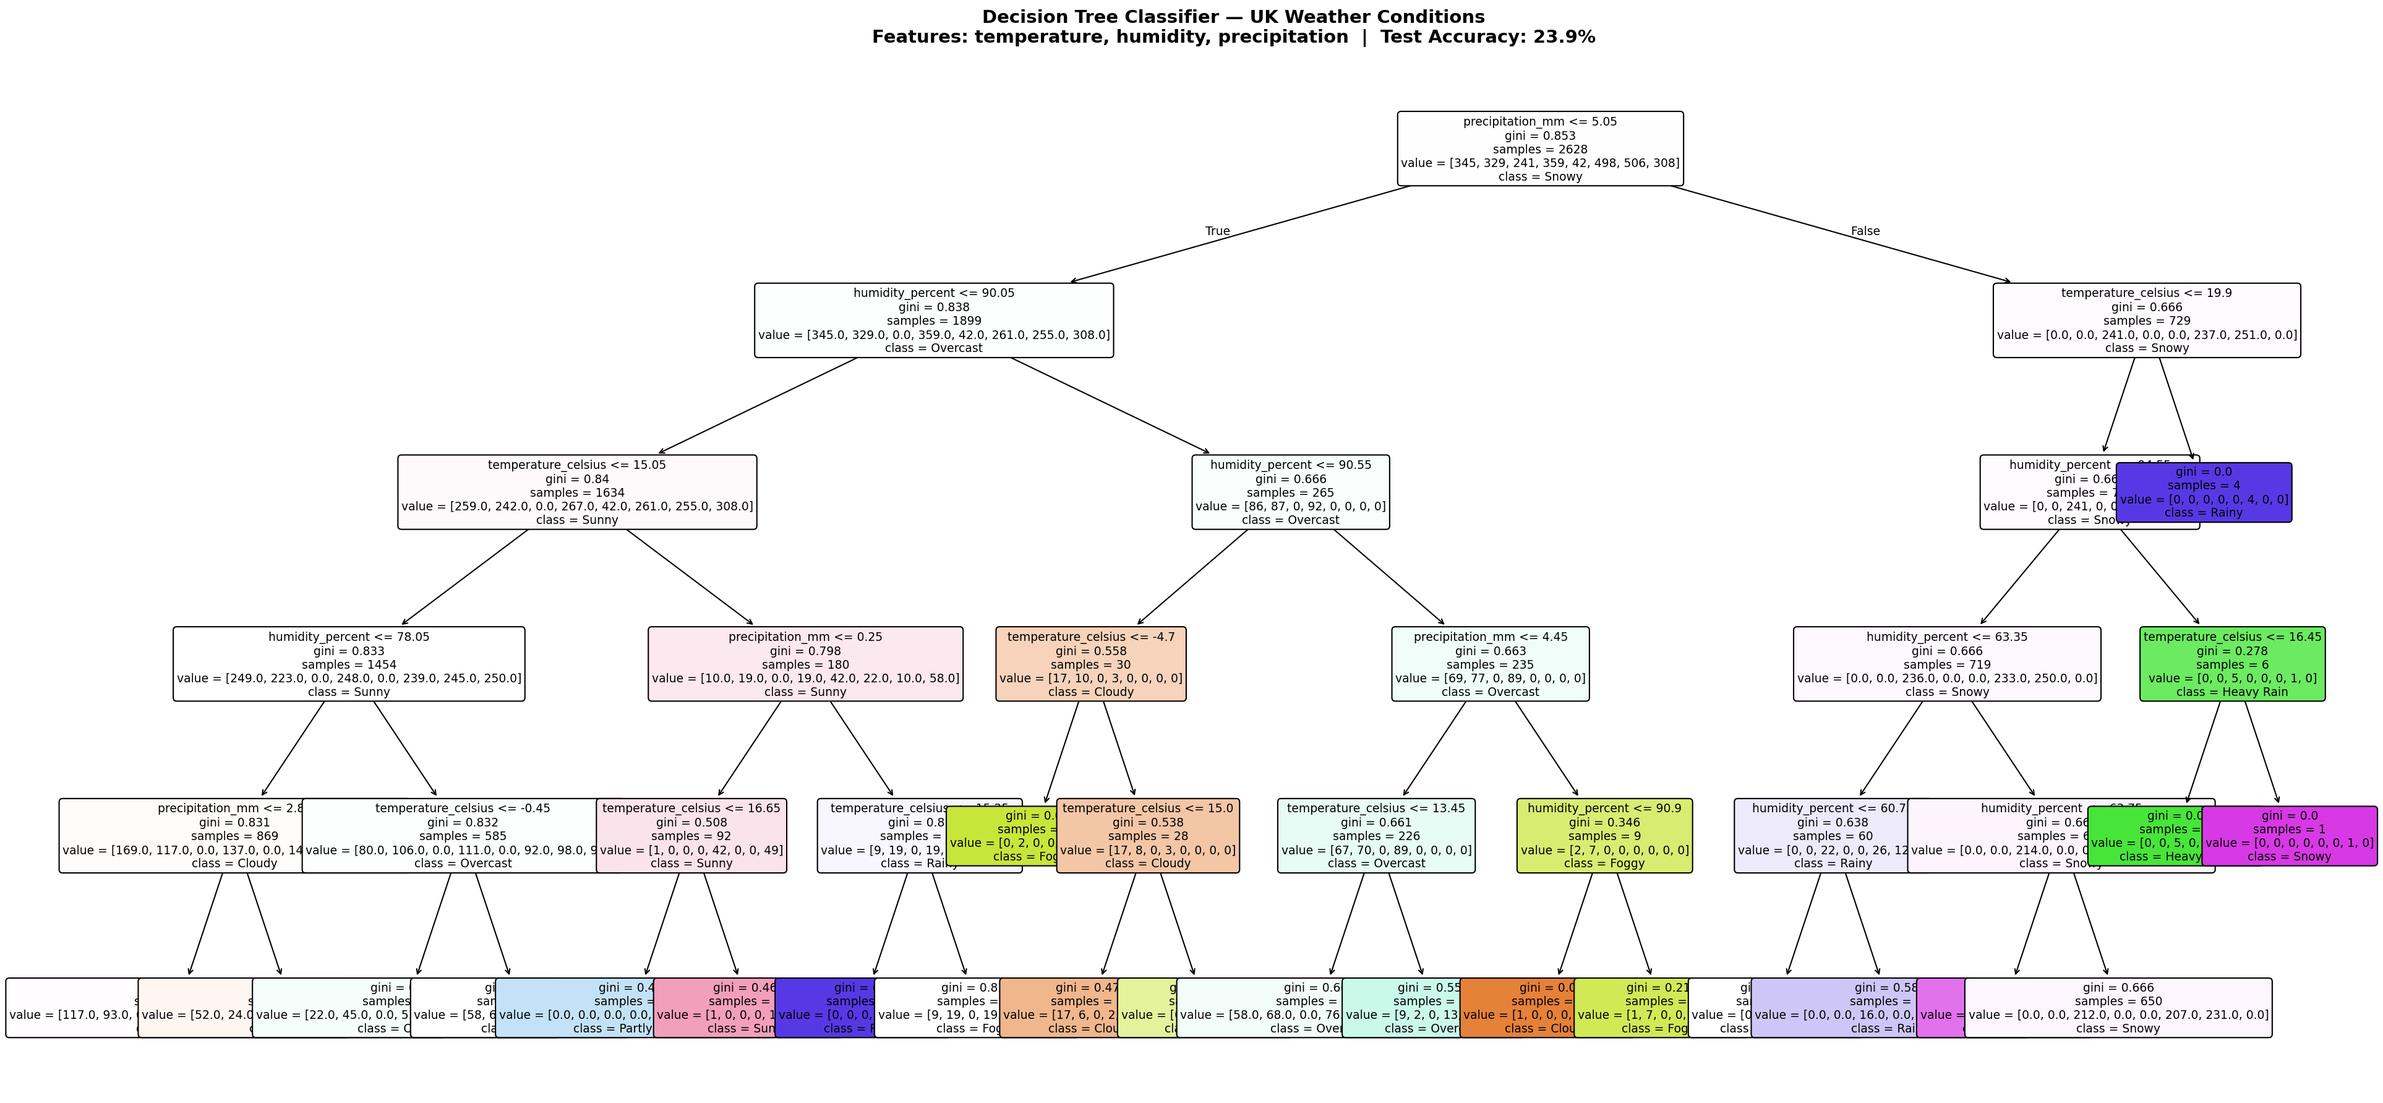
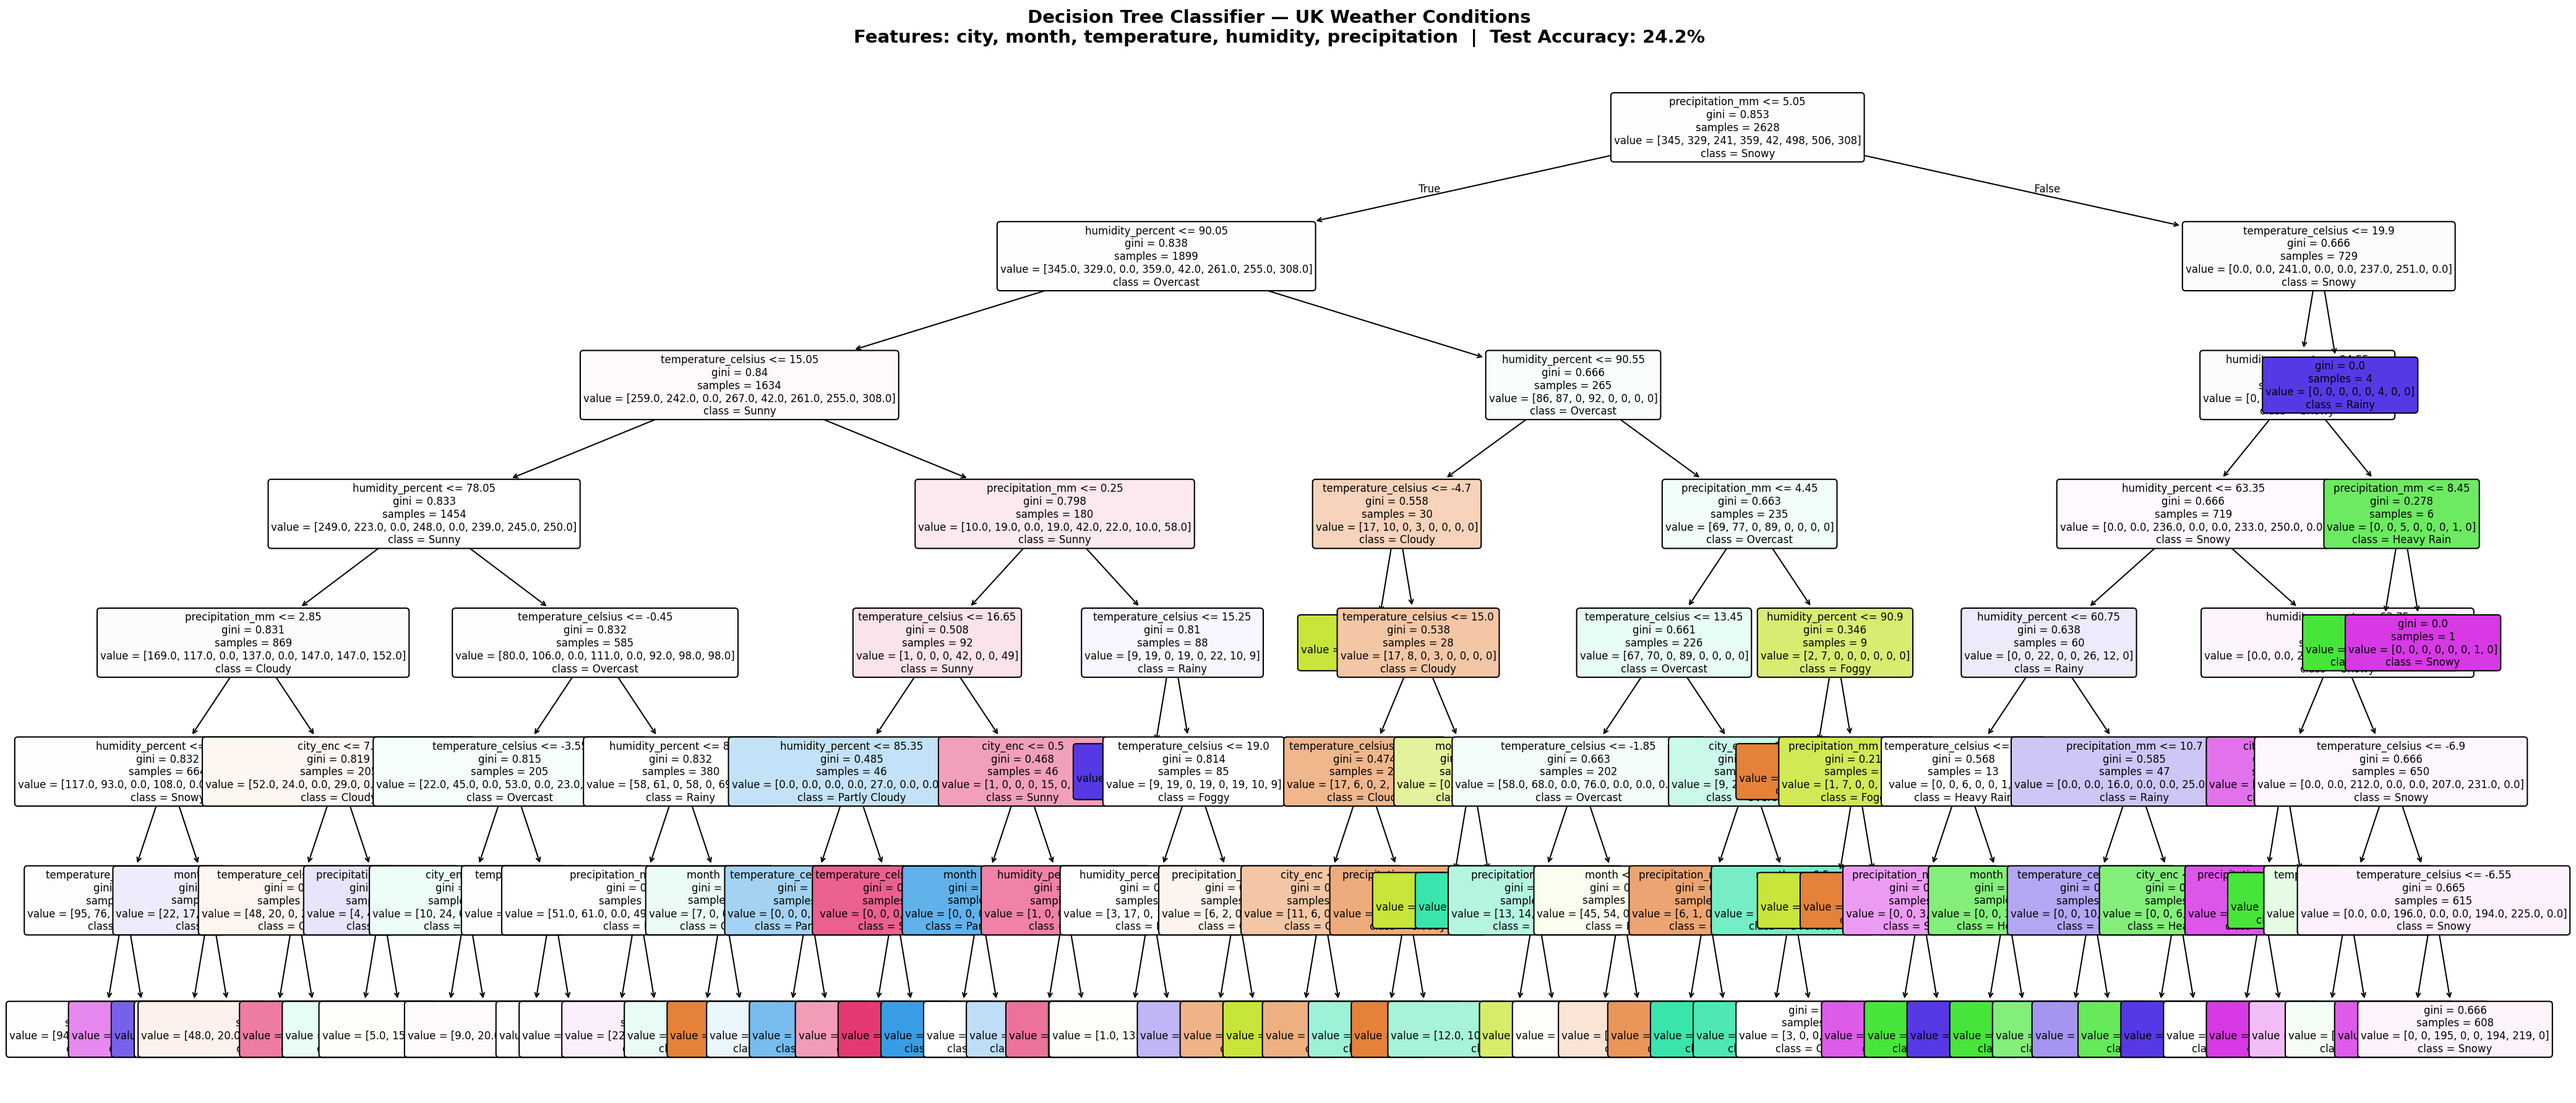
Add city-based weather prediction endpoint and retrain with city+month features
https://claude.ai/code/session_01JWRidUiQvpm6m6QhjKPaqE

diff --git a/api.py b/api.py
@@ -1,18 +1,33 @@
 import os
-from flask import Flask, send_file, jsonify
+import pickle
+from datetime import datetime
+from flask import Flask, send_file, jsonify, request
 
 app = Flask(__name__)
 
-IMAGE_PATH = os.path.join(os.path.dirname(__file__), "decision_tree.png")
+BASE_DIR = os.path.dirname(__file__)
+IMAGE_PATH = os.path.join(BASE_DIR, "decision_tree.png")
+MODEL_PATH = os.path.join(BASE_DIR, "model.pkl")
+
+
+def load_model():
+    if not os.path.exists(MODEL_PATH):
+        return None
+    with open(MODEL_PATH, "rb") as f:
+        return pickle.load(f)
 
 
 @app.route("/")
 def index():
+    data = load_model()
+    cities = data["cities"] if data else []
     return jsonify({
-        "service": "Decision Tree API",
+        "service": "UK Weather Decision Tree API",
         "endpoints": {
-            "GET /decision-tree/image": "Download the decision tree graph as a PNG file"
-        }
+            "GET /decision-tree/image": "Download the decision tree graph as PNG",
+            "GET /predict?city=London&month=6&temperature=18&humidity=75&precipitation=2": "Predict weather condition"
+        },
+        "available_cities": cities
     })
 
 
@@ -20,13 +35,77 @@ def index():
 def download_decision_tree():
     if not os.path.exists(IMAGE_PATH):
         return jsonify({"error": "Image not found. Run decision_tree_model.py first."}), 404
-
     return send_file(
         IMAGE_PATH,
         mimetype="image/png",
         as_attachment=True,
         download_name="decision_tree.png"
     )
+
+
+@app.route("/predict", methods=["GET"])
+def predict():
+    data = load_model()
+    if not data:
+        return jsonify({"error": "Model not found. Run decision_tree_model.py first."}), 404
+
+    model = data["model"]
+    city_encoder = data["city_encoder"]
+    label_encoder = data["label_encoder"]
+    available_cities = data["cities"]
+
+    # Get params
+    city = request.args.get("city", "").strip().title()
+    month = request.args.get("month", datetime.now().month)
+    temperature = request.args.get("temperature")
+    humidity = request.args.get("humidity")
+    precipitation = request.args.get("precipitation", 0)
+
+    # Validate city
+    if not city:
+        return jsonify({"error": "Missing required param: city", "available_cities": available_cities}), 400
+    if city not in available_cities:
+        return jsonify({"error": f"Unknown city '{city}'", "available_cities": available_cities}), 400
+
+    # Validate numeric params
+    if temperature is None or humidity is None:
+        return jsonify({"error": "Missing required params: temperature, humidity"}), 400
+
+    try:
+        month = int(month)
+        temperature = float(temperature)
+        humidity = float(humidity)
+        precipitation = float(precipitation)
+    except ValueError:
+        return jsonify({"error": "month, temperature, humidity, precipitation must be numbers"}), 400
+
+    # Encode and predict
+    city_enc = city_encoder.transform([city])[0]
+    features = [[city_enc, month, temperature, humidity, precipitation]]
+    prediction_enc = model.predict(features)[0]
+    probabilities = model.predict_proba(features)[0]
+    predicted_class = label_encoder.inverse_transform([prediction_enc])[0]
+
+    # Build probability breakdown
+    class_probs = {
+        label_encoder.classes_[i]: round(float(p) * 100, 1)
+        for i, p in enumerate(probabilities)
+        if p > 0
+    }
+    class_probs = dict(sorted(class_probs.items(), key=lambda x: x[1], reverse=True))
+
+    return jsonify({
+        "input": {
+            "city": city,
+            "month": month,
+            "temperature_celsius": temperature,
+            "humidity_percent": humidity,
+            "precipitation_mm": precipitation
+        },
+        "predicted_weather": predicted_class,
+        "confidence_percent": round(float(max(probabilities)) * 100, 1),
+        "all_probabilities": class_probs
+    })
 
 
 if __name__ == "__main__":

diff --git a/decision_tree_model.py b/decision_tree_model.py
@@ -1,6 +1,9 @@
 import pandas as pd
 import numpy as np
+import matplotlib
+matplotlib.use("Agg")
 import matplotlib.pyplot as plt
+import pickle
 from sklearn.model_selection import train_test_split
 from sklearn.tree import DecisionTreeClassifier, plot_tree
 from sklearn.metrics import classification_report, accuracy_score
@@ -9,25 +12,31 @@ from sklearn.preprocessing import LabelEncoder
 # Load UK weather dataset
 df = pd.read_csv("uk_weather_data.csv")
 
-# Features and target
-features = ["temperature_celsius", "humidity_percent", "precipitation_mm"]
-target = "weather_condition"
+# Feature engineering
+df["month"] = pd.to_datetime(df["date"]).dt.month
+
+# Encode city
+city_encoder = LabelEncoder()
+df["city_enc"] = city_encoder.fit_transform(df["city"])
+
+# Encode target
+label_encoder = LabelEncoder()
+df["condition_enc"] = label_encoder.fit_transform(df["weather_condition"])
+
+features = ["city_enc", "month", "temperature_celsius", "humidity_percent", "precipitation_mm"]
+target = "condition_enc"
 
 X = df[features].values
-y_raw = df[target].values
+y = df[target].values
+class_names = label_encoder.classes_
 
-# Encode string labels to integers
-le = LabelEncoder()
-y = le.fit_transform(y_raw)
-class_names = le.classes_
-
-# Split into train / test sets
+# Split
 X_train, X_test, y_train, y_test = train_test_split(
     X, y, test_size=0.2, random_state=42, stratify=y
 )
 
-# Train Decision Tree
-clf = DecisionTreeClassifier(max_depth=5, random_state=42)
+# Train
+clf = DecisionTreeClassifier(max_depth=7, random_state=42)
 clf.fit(X_train, y_train)
 
 # Evaluate
@@ -40,25 +49,38 @@ print("=" * 55)
 print(f"\nDataset rows     : {len(df)}")
 print(f"Training samples : {len(X_train)}")
 print(f"Test samples     : {len(X_test)}")
+print(f"Features         : {', '.join(features)}")
 print(f"Classes          : {', '.join(class_names)}")
 print(f"\nTest Accuracy    : {accuracy * 100:.2f}%\n")
 print("Classification Report:")
 print(classification_report(y_test, y_pred, target_names=class_names))
 
-# Visualise the tree
-fig, ax = plt.subplots(figsize=(26, 12))
+# Save model + encoders for API use
+with open("model.pkl", "wb") as f:
+    pickle.dump({
+        "model": clf,
+        "city_encoder": city_encoder,
+        "label_encoder": label_encoder,
+        "feature_names": features,
+        "cities": list(city_encoder.classes_),
+        "classes": list(class_names),
+    }, f)
+print("Model saved to: model.pkl")
+
+# Visualise tree
+fig, ax = plt.subplots(figsize=(28, 12))
 plot_tree(
     clf,
     feature_names=features,
     class_names=class_names,
     filled=True,
     rounded=True,
-    fontsize=9,
+    fontsize=8,
     ax=ax,
 )
 ax.set_title(
     "Decision Tree Classifier — UK Weather Conditions\n"
-    f"Features: temperature, humidity, precipitation  |  Test Accuracy: {accuracy*100:.1f}%",
+    f"Features: city, month, temperature, humidity, precipitation  |  Test Accuracy: {accuracy*100:.1f}%",
     fontsize=14,
     fontweight="bold",
     pad=16,
@@ -66,4 +88,3 @@ ax.set_title(
 plt.tight_layout()
 plt.savefig("decision_tree.png", dpi=150, bbox_inches="tight")
 print("Tree graph saved to: decision_tree.png")
-plt.show()
